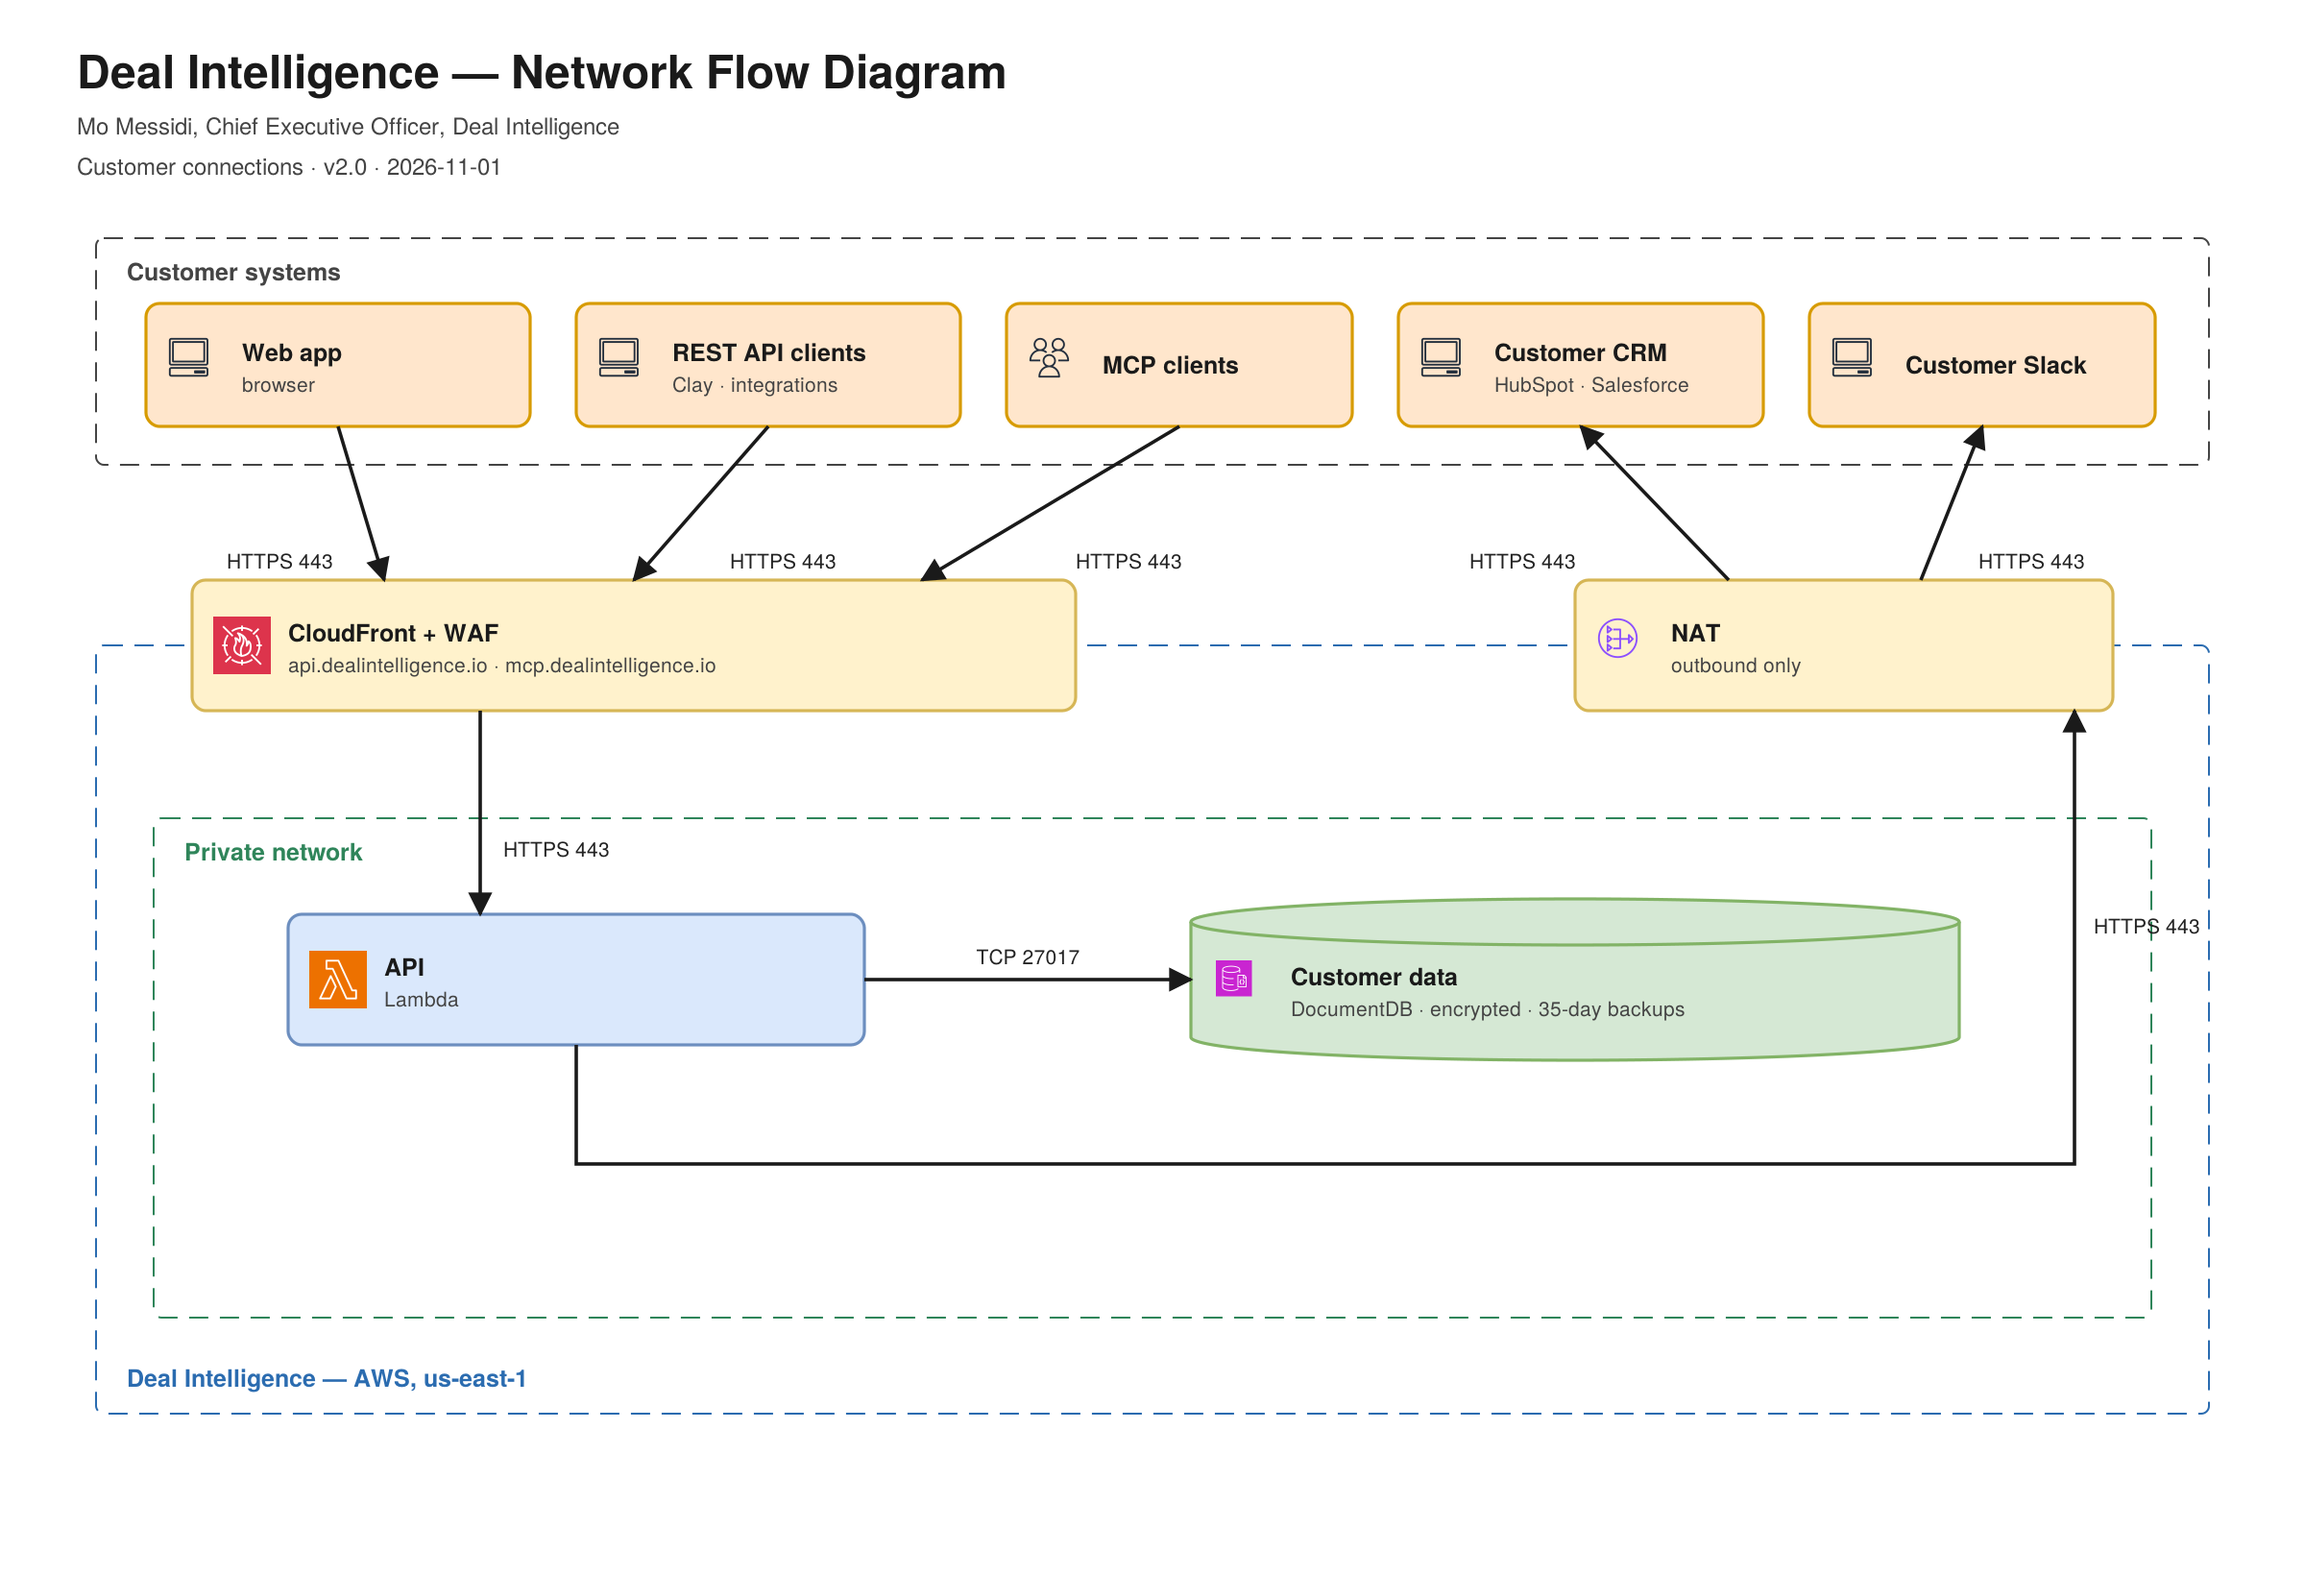
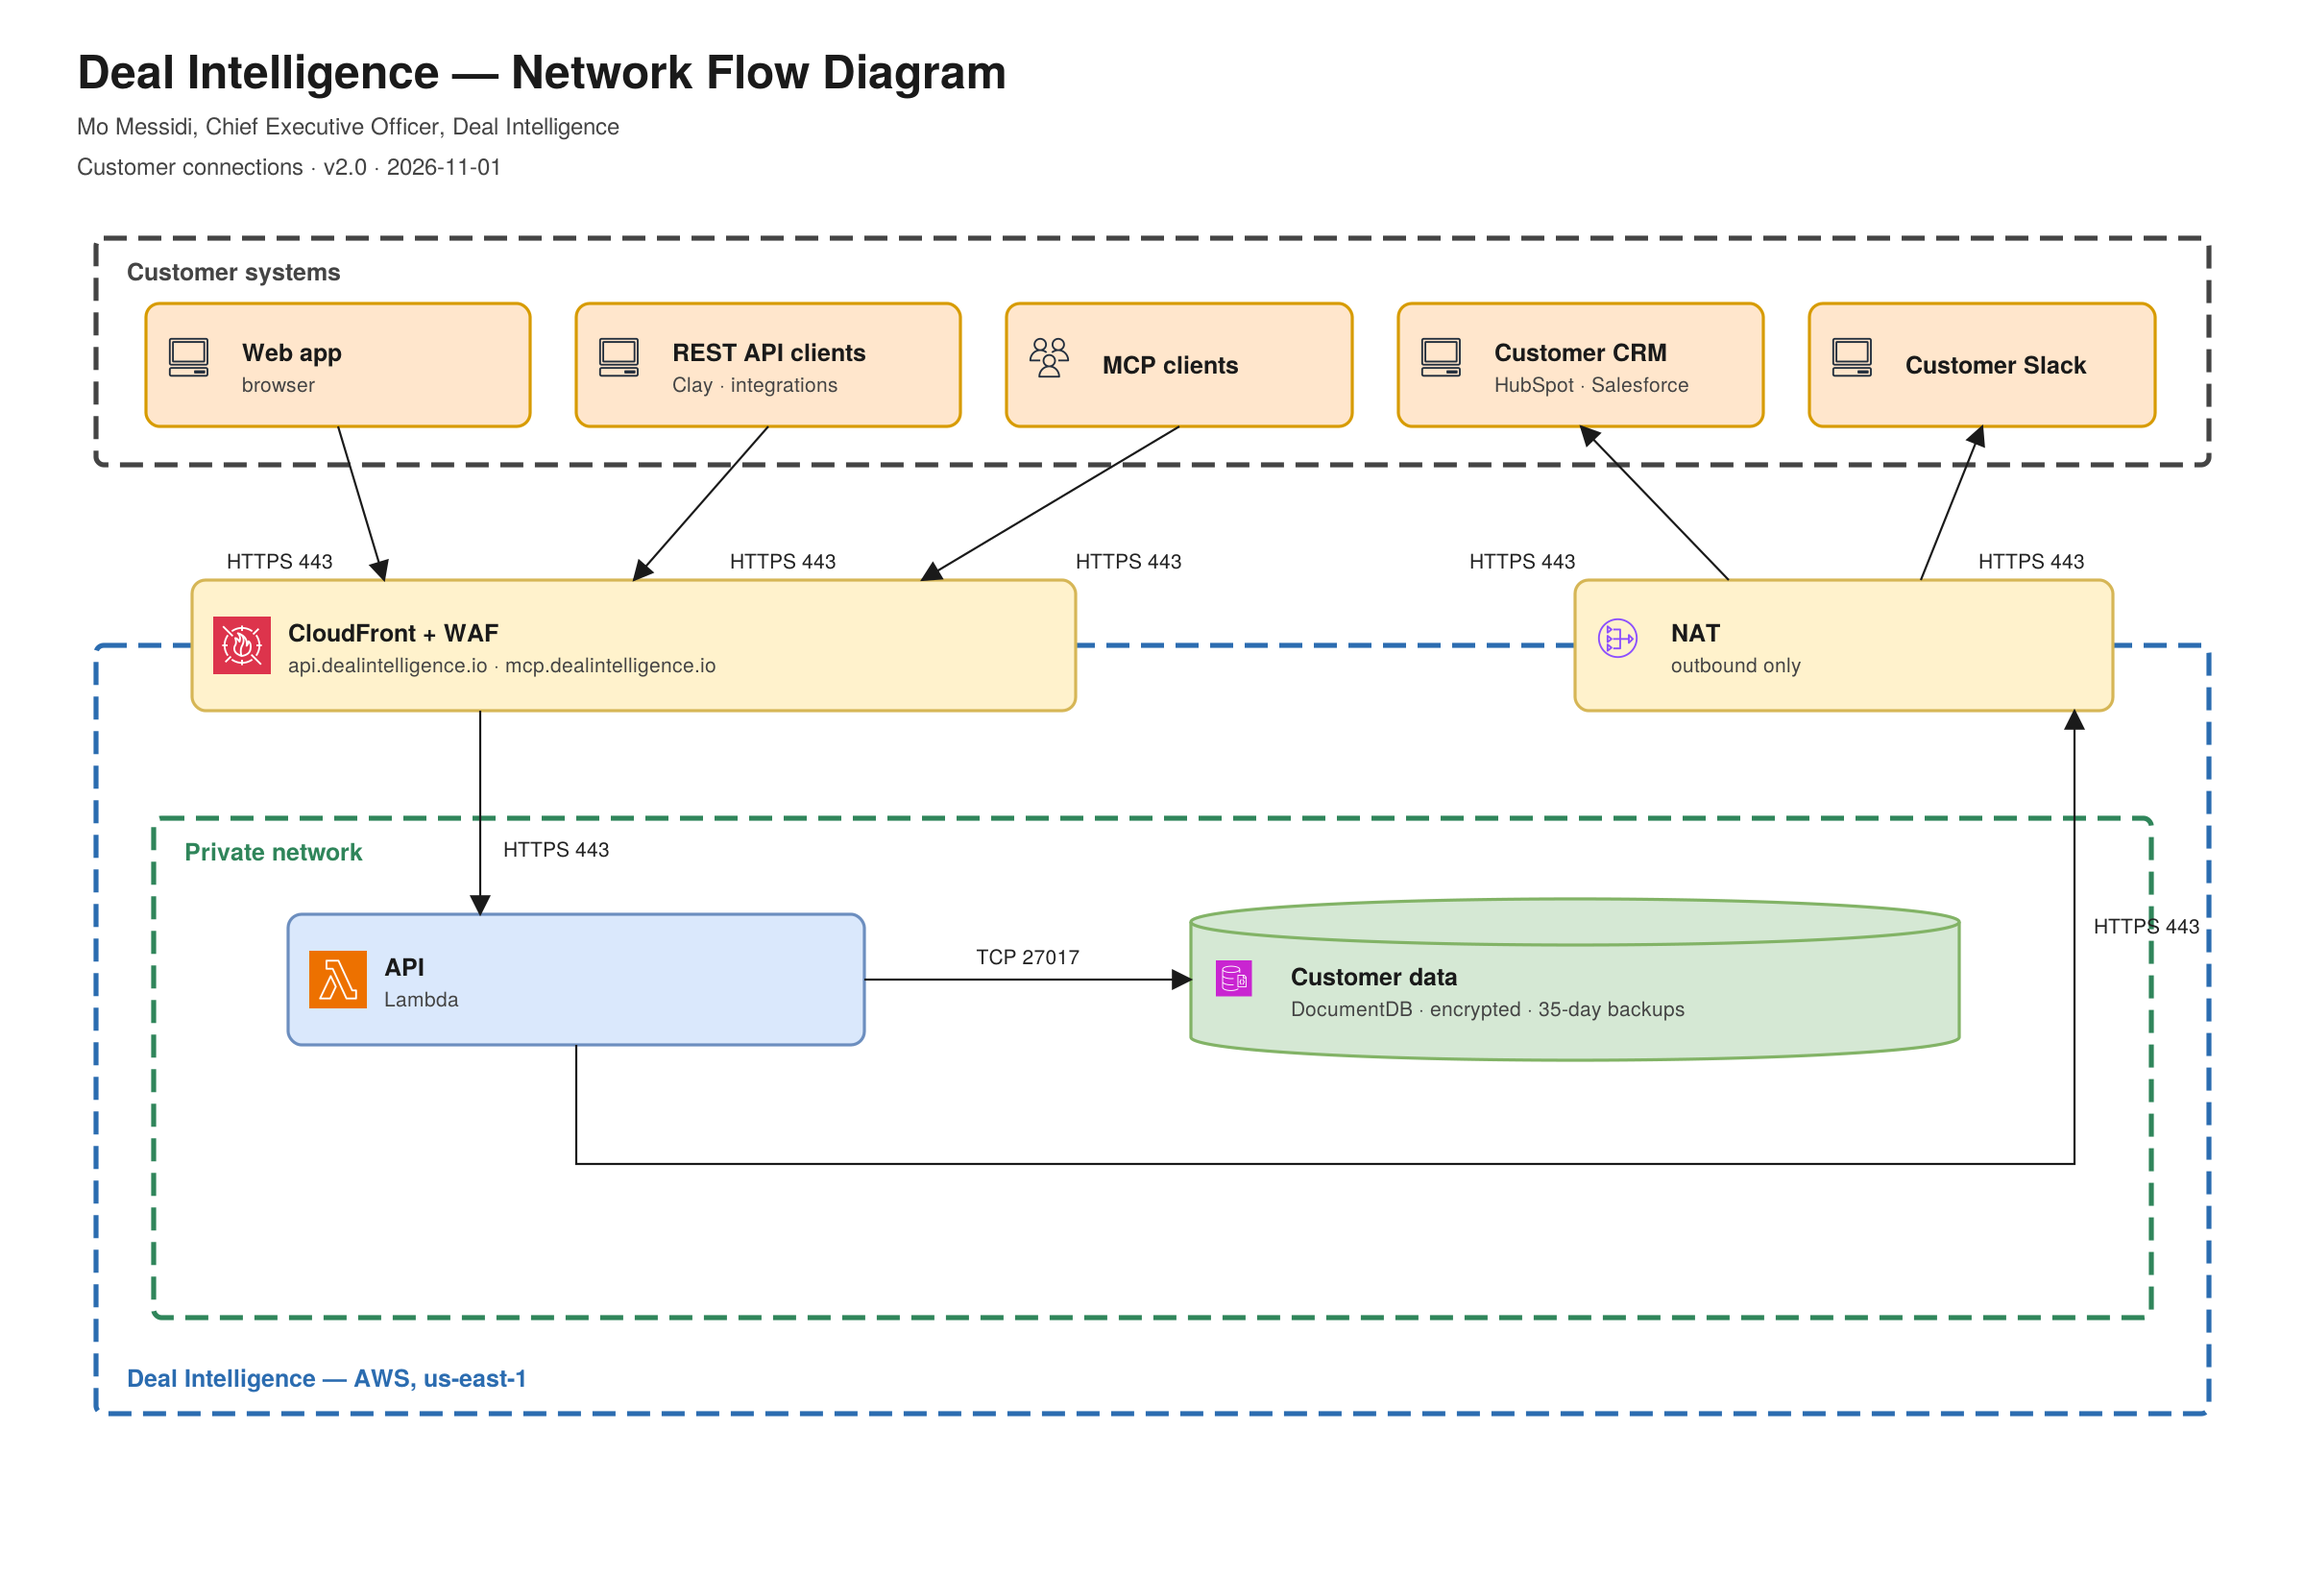
docs(di-migration): network diagram — thicker trust boundaries, thinner flow arrows
Claude-Session: https://claude.ai/code/session_01HHDhHvUwP2Tkd9fWDhAGHC

diff --git a/scripts/di-migration/evidence/network-diagram/make_network_diagram.py b/scripts/di-migration/evidence/network-diagram/make_network_diagram.py
@@ -72,12 +72,12 @@ class Canvas:
 
     def boundary(self, x, y, w, h, label, color="#444", at="top"):
         self.p.append(f'<rect x="{x}" y="{y}" width="{w}" height="{h}" rx="4" ry="4" fill="none" '
-                      f'stroke="{color}" stroke-width="1.0" stroke-dasharray="10 6"/>')
+                      f'stroke="{color}" stroke-width="2.6" stroke-dasharray="12 6"/>')
         self.text(x + 16, y + 22 if at == "top" else y + h - 13, label, 12.5, "start", "bold", color)
 
     def arrow(self, pts, label=None, lx=None, ly=None, anchor="middle"):
         path = "M" + " L".join(f"{x},{y}" for x, y in pts)
-        self.p.append(f'<path d="{path}" fill="none" stroke="#1a1a1a" stroke-width="1.8" marker-end="url(#a)"/>')
+        self.p.append(f'<path d="{path}" fill="none" stroke="#1a1a1a" stroke-width="1.1" marker-end="url(#a)"/>')
         if label:
             self.text(lx, ly, label, 10.5, anchor, fill="#222")
 
@@ -89,7 +89,7 @@ class Canvas:
     def save(self, stem):
         svg = (f'<svg xmlns="http://www.w3.org/2000/svg" width="{self.w}" height="{self.h}" viewBox="0 0 {self.w} {self.h}">'
                f'<rect width="{self.w}" height="{self.h}" fill="#fff"/><defs><marker id="a" viewBox="0 0 10 10" refX="9" '
-               'refY="5" markerWidth="7" markerHeight="7" orient="auto-start-reverse"><path d="M0,0 L10,5 L0,10 z" '
+               'refY="5" markerWidth="10" markerHeight="10" orient="auto-start-reverse"><path d="M0,0 L10,5 L0,10 z" '
                'fill="#1a1a1a"/></marker></defs>' + "".join(self.p) + "</svg>")
         (HERE / f"{stem}.svg").write_text(svg)
         import cairosvg
@@ -99,16 +99,16 @@ class Canvas:
 
 
 def legend(c, x, y):
-    c.p.append(f'<line x1="{x}" y1="{y-4}" x2="{x+30}" y2="{y-4}" stroke="#1a1a1a" stroke-width="1.8" marker-end="url(#a)"/>')
+    c.p.append(f'<line x1="{x}" y1="{y-4}" x2="{x+30}" y2="{y-4}" stroke="#1a1a1a" stroke-width="1.1" marker-end="url(#a)"/>')
     c.text(x + 38, y, "network connection — from the side that opens it, with protocol and port", 10.5, "start", fill="#333")
-    c.p.append(f'<line x1="{x}" y1="{y+14}" x2="{x+30}" y2="{y+14}" stroke="#1a1a1a" stroke-width="1.8" '
+    c.p.append(f'<line x1="{x}" y1="{y+14}" x2="{x+30}" y2="{y+14}" stroke="#1a1a1a" stroke-width="1.1" '
                'stroke-dasharray="5 4" marker-end="url(#a)"/>')
     c.text(x + 38, y + 18, "administrative access", 10.5, "start", fill="#333")
 
 
 def dashed(c, pts, label=None, lx=None, ly=None, anchor="middle"):
     path = "M" + " L".join(f"{x},{y}" for x, y in pts)
-    c.p.append(f'<path d="{path}" fill="none" stroke="#1a1a1a" stroke-width="1.8" stroke-dasharray="5 4" marker-end="url(#a)"/>')
+    c.p.append(f'<path d="{path}" fill="none" stroke="#1a1a1a" stroke-width="1.1" stroke-dasharray="5 4" marker-end="url(#a)"/>')
     if label:
         c.text(lx, ly, label, 10.5, anchor, fill="#222")
 
@@ -130,7 +130,7 @@ def build_internal():
 
     A = 336
     c.p.append(f'<rect x="50" y="{A}" width="1440" height="770" rx="4" ry="4" fill="none" stroke="#2b6cb0" '
-               'stroke-width="1.0" stroke-dasharray="10 6"/>')
+               'stroke-width="2.6" stroke-dasharray="12 6"/>')
     c.text(66, A + 756, "AWS account 164482277879 — us-east-1", 12.5, "start", "bold", "#2b6cb0")
 
     c.node(100, A - 34, 560, 68, "CloudFront + WAF", "api.dealintelligence.io · mcp.dealintelligence.io · self-managed WAF", BND, "AWSWAF")
@@ -196,7 +196,7 @@ def build_customer():
 
     A = 336
     c.p.append(f'<rect x="50" y="{A}" width="1100" height="400" rx="4" ry="4" fill="none" stroke="#2b6cb0" '
-               'stroke-width="1.0" stroke-dasharray="10 6"/>')
+               'stroke-width="2.6" stroke-dasharray="12 6"/>')
     c.text(66, A + 386, "Deal Intelligence — AWS, us-east-1", 12.5, "start", "bold", "#2b6cb0")
 
     c.node(100, A - 34, 460, 68, "CloudFront + WAF", "api.dealintelligence.io · mcp.dealintelligence.io", BND, "AWSWAF")
